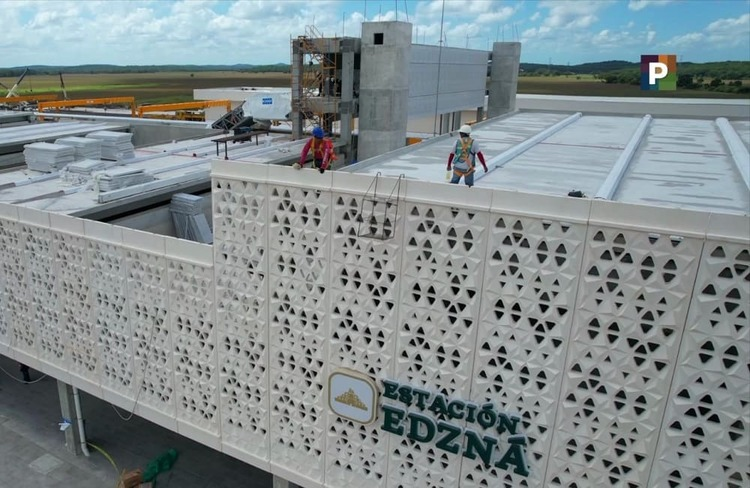
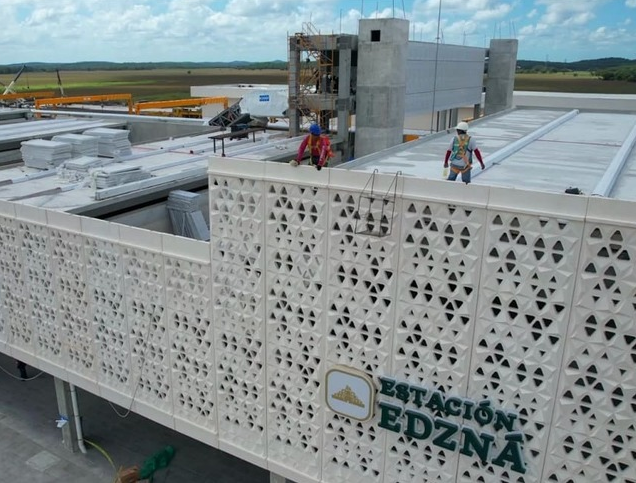
Add features

diff --git a/src/pages/Projects.jsx b/src/pages/Projects.jsx
@@ -6,7 +6,7 @@ import color from "../color";
 import { useBreakpointValue } from '@chakra-ui/react';
 import { FiZoomIn } from "react-icons/fi";
 import ImageGallery from "react-image-gallery";
-import "react-image-gallery/styles/css/image-gallery.css";
+//import "react-image-gallery/styles/css/image-gallery.css";
 
 const fullWidthPositions = [3, 8, 11, 16, 23];
 
@@ -19,7 +19,7 @@ const ImageGrid = ({ images }) => {
                 return (
                     <div
                         key={index}
-                        className={`relative ${isFullWidth ? 'col-span-2' : ''}`}
+                        className={`relative-cont ${isFullWidth ? 'col-span-2' : ''}`}
                     >
                         <img
                             src={item?.route_img ? `/projects/especiales/${item?.route_img}/${item?.imgs[0]}.png` : item?.src}
@@ -248,144 +248,11 @@ const images = [
 
 import { RiBuilding2Line, RiFolderUserLine, RiFolderChartLine, RiNurseLine, RiShakeHandsLine, RiThumbUpLine, RiBuildingLine, RiPencilRuler2Line, RiPageSeparator, RiP2PLine, } from "react-icons/ri";
 
-const features = [
-    {
-        name: 'Proceso Conceptual',
-        description:
-            'En esta etapa inicial del proceso de producción de prefabricados, se desarrolla la visión y el concepto general del proyecto.',
-        icon: RiBuilding2Line,
-    },
-    {
-        name: 'Planeación',
-        description:
-            'La fase de planeación implica la elaboración detallada de un plan estratégico que abarca aspectos logísticos, financieros y temporales.',
-        icon: RiFolderUserLine,
-    },
-    {
-        name: 'Ingeniería de Detalle',
-        description:
-            'Durante esta etapa, se traducen los conceptos y planes generales en especificaciones técnicas y detalles precisos.',
-        icon: RiFolderChartLine,
-    },
-    {
-        name: 'Fabricación',
-        description:
-            'La fabricación es el proceso central donde los componentes prefabricados toman forma. ',
-        icon: RiNurseLine,
-    },
-    {
-        name: 'Transporte y Montaje',
-        description:
-            'Una vez que las unidades prefabricadas han sido fabricadas, se inicia la fase de transporte hacia el lugar de montaje.',
-        icon: RiShakeHandsLine,
-    },
-    {
-        name: 'Conexiones',
-        description:
-            'La fase de conexiones es crítica para asegurar la estabilidad y la integridad estructural del proyecto.',
-        icon: RiThumbUpLine,
-    },
-]
-
-const icons_ = [RiBuilding2Line, RiFolderUserLine, RiFolderChartLine, RiNurseLine, RiShakeHandsLine, RiThumbUpLine, RiBuildingLine, RiPencilRuler2Line, RiPageSeparator, RiP2PLine,]
-
-
-
-const breakpoints = [1080, 640, 384, 256, 128, 96, 64, 48];
-
-function imageLink(path, width, height, size, extension) {
-    return `https://images.react-photo-album.com/hiking/${path}.${width}x${height}.${size}w.${extension}`;
-}
 
 
 const Projects = ({ id }) => {
 
-
     const types = {
-        1: {
-            "name": "Infraestructura",
-            "description": "Somos responsables de la estructura base que da fuerza y sostiene a un gran número de construcciones. Somos la diferencia en obras públicas gracias a nuestra gran experiencia.",
-            "header": "<strong>Nuestra empresa</strong> posee una <strong>sólida trayectoria en aspectos fundamentales para el éxito en el ámbito de la construcción</strong>:",
-            "word_key": [
-                "Máxima garantía de calidad",
-                "Eficiencia",
-                "Seguridad",
-                "Ingeniería estructural",
-                "Normativas de construcción",
-                "Tecnologías innovadoras",
-                "Liderazgo en proyectos",
-                "Planificación y ejecución de obras",
-                "Estrategias de desarrollo",
-                "Eficiencia operativa",
-            ],
-            "content": "Nuestro equipo de profesionales, con <strong>vasta experiencia en roles directivos y académicos</strong>, ofrece conferencias que fusionan conocimientos técnicos con enfoques motivadores. Hemos destacado como líderes en el sector, aplicando nuestra experiencia como directores generales, docentes en instituciones relevantes y consultores en diversas organizaciones nacionales e internacionales.",
-            "footer": "En cada presentación, <strong>buscamos transmitir de manera clara y accesible los principios esenciales de la construcción</strong>, inspirando a nuestra audiencia a implementar cambios que generen satisfacción y un valor añadido tanto en su desarrollo personal como en su carrera profesional."
-        },
-        2: {
-            "name": "Edificación",
-            "description": "Diseñamos y planificamos eficientemente edificios e inmuebles de acuerdo a las necesidades que requieran para sus proyectos habitacionales.",
-            "header": "<strong>Nuestra firma</strong> cuenta con una <strong> extensa trayectoria en el ámbito de la edificación</strong>, abordando aspectos fundamentales para el éxito en este campo:",
-            "word_key": [
-                "Diseño arquitectónico",
-                "Normativas de construcción",
-                "Innovación en técnicas constructivas",
-                "Liderazgo en proyectos de edificación",
-                "Planificación y ejecución de obras",
-                "Estrategias para el desarrollo sostenible",
-                "Eficiencia en procesos constructivos",
-            ],
-            "content": "Nuestro equipo de expertos, <strong>con amplia experiencia en roles directivos y académicos</strong>, ofrece conferencias que combinan conocimientos técnicos con enfoques inspiradores. Hemos destacado como líderes en el sector, aplicando nuestra experiencia como directores generales, docentes en instituciones destacadas y consultores en diversas organizaciones nacionales e internacionales.",
-            "footer": "En cada presentación, <strong>buscamos comunicar de manera clara y accesible los principios esenciales de la edificación</strong>, inspirando a nuestra audiencia a implementar cambios que generen satisfacción y un valor añadido tanto en su desarrollo personal como en su carrera profesional en el emocionante mundo de la construcción."
-        },
-        3: {
-            "name": "Transporte",
-            "description": "Parte fundamental de entorno del prefabricado es el transporte el cual consiste en el desplazamiento de los elementos prefabricados a los sitos indicados por nuestros clientes. Contamos con el mejor equipo de Transporte para lograr una eficaz ejecución de todos tus proyectos.",
-            "header": "<strong>Nuestra empresa</strong> ha forjado una sólida trayectoria en el <strong>ámbito del transporte de materiales y estructuras prefabricadas</strong>, abordando aspectos críticos para garantizar el éxito en esta área especializada:",
-            "word_key": [
-                "Logística eficiente en el transporte de materiales",
-                "Gestión de la cadena de suministro",
-                "Innovación en técnicas de transporte",
-                "Liderazgo en proyectos logísticos",
-                "Planificación y ejecución de rutas especializadas",
-                "Estrategias para la optimización del transporte",
-                "Eficiencia en la manipulación de estructuras prefabricadas",
-            ],
-            "content": "Nuestro equipo de especialistas, <strong>con una amplia experiencia en roles directivos y técnicos</strong>, ofrece conferencias que combinan conocimientos prácticos con enfoques inspiradores. Hemos destacado como líderes en el sector, aplicando nuestra experiencia en proyectos logísticos complejos, tanto a nivel nacional como internacional.",
-            "footer": "En cada presentación, <strong>nos esforzamos por comunicar de manera clara y accesible los principios esenciales del transporte de materiales y estructuras prefabricadas</strong>, inspirando a nuestra audiencia a implementar prácticas innovadoras que generen eficiencia y un valor añadido en esta dinámica y esencial área de la construcción."
-        },
-        4: {
-            "name": "Montaje",
-            "description": "Una vez realizada la fabricación y el transporte, ejecutamos el montaje de las piezas prefabricadas con seguridad y precisión para construir la estructura proyectada.",
-            "header": "<strong>Nuestra empresa</strong> ha consolidado una destacada experiencia en el <strong>ámbito del montaje de materiales y estructuras prefabricadas</strong>, abordando aspectos fundamentales para el éxito en esta especialidad:",
-            "word_key": [
-                "Técnicas avanzadas de montaje",
-                "Planificación detallada de la instalación",
-                "Innovación en procesos de ensamblaje",
-                "Liderazgo en proyectos de montaje",
-                "Coordinación eficiente de equipos de trabajo",
-                "Estrategias para la optimización del proceso de montaje",
-                "Garantía de seguridad en la instalación",
-            ],
-            "content": "Nuestro equipo de especialistas, <strong>con una amplia experiencia en roles directivos y técnicos</strong>, ofrece conferencias que combinan conocimientos técnicos con enfoques inspiradores. Nos destacamos como líderes en el sector, aplicando nuestra experiencia en proyectos de montaje complejos, tanto a nivel nacional como internacional.",
-            "footer": "En cada presentación, <strong>nos esforzamos por comunicar de manera clara y accesible los principios esenciales del montaje de materiales y estructuras prefabricadas</strong>, inspirando a nuestra audiencia a implementar prácticas innovadoras que generen eficiencia y un valor añadido en esta crítica etapa del proceso constructivo."
-        },
-        5: {
-            "name": "Supervisión",
-            "description": "La supervisión de las obras forma parte de las funciones administrativas de gran valor e importancia que realizamos para que se cumplan efectiva y puntualmente los objetivos del proyecto de forma legal, en tiempo y calidad.",
-            "header": "<strong>Nuestra firma</strong> se distingue por su <strong>destacada supervisión en los procesos de instalación de estructuras prefabricadas</strong>, abordando aspectos cruciales para garantizar la eficiencia y la calidad en cada fase del proyecto:",
-            "word_key": [
-                "Supervisión técnica especializada en instalación de prefabricados",
-                "Gestión de la seguridad en el sitio de construcción",
-                "Innovación en métodos de instalación",
-                "Liderazgo en la coordinación de equipos de trabajo",
-                "Planificación y ejecución de procesos de montaje",
-                "Estrategias para la optimización de recursos",
-                "Eficiencia en la integración de estructuras prefabricadas",
-            ],
-            "content": "Nuestro equipo de supervisores, <strong>con una vasta experiencia en roles de dirección y técnica</strong>, imparte conferencias que combinan conocimientos prácticos con enfoques motivadores. Nos destacamos como líderes en el sector, aplicando nuestra experiencia en proyectos de instalación de estructuras prefabricadas en diversos contextos y escalas.",
-            "footer": "En cada presentación, <strong>nos esforzamos por comunicar de manera clara y accesible los principios esenciales de la supervisión en la instalación de estructuras prefabricadas</strong>, inspirando a nuestra audiencia a implementar prácticas avanzadas que generen eficiencia y un valor añadido en esta fase crítica de la construcción."
-        },
-
         6: {
             "name": "Especiales",
             "description": "La supervisión de las obras forma parte de las funciones administrativas de gran valor e importancia que realizamos para que se cumplan efectiva y puntualmente los objetivos del proyecto de forma legal, en tiempo y calidad.",
@@ -439,48 +306,6 @@ const Projects = ({ id }) => {
                     <div className="container mx-auto pb-16 p-1.5 ">
                         <ImageGrid images={images} />
                     </div>
-
-                    {/*<section>
-                        <section id="system">
-                            <div className="row-base row">
-                                <div>
-                                    <Fade direction="down">
-                                        <section className="text-center">
-                                            <h2 className="section-title" style={{ paddingTop: 30, }}>Expertos en <span className="text-primary-blue">{types[id]?.name}</span></h2>
-                                        </section>
-                                    </Fade>
-                                    <div className="line-banner" style={{ backgroundColor: color.orange }} />
-                                    <div className="">
-                                        <div className="col-base col-md-offset-1">
-                                            <div className="col-about-info">
-                                                <div>
-                                                    <p style={{ textAlign: 'center' }}>
-                                                        <div dangerouslySetInnerHTML={{ __html: types[id]?.description }} />
-                                                    </p>
-                                                </div>
-                                                <p>
-                                                    <div dangerouslySetInnerHTML={{ __html: types[id]?.content }} />
-                                                </p>
-                                                <p>
-                                                    <div dangerouslySetInnerHTML={{ __html: types[id]?.header }} />
-                                                </p>
-                                                <ol type="A">
-                                                    {types[id]?.word_key.map((item, index) => (
-                                                        <div style={{ borderColor: '#B6B6B650', borderBottomWidth: 1, paddingTop: 8, paddingBottom: 8, }}>
-                                                            <li key={index}>{item}</li>
-                                                        </div>
-                                                    ))}
-                                                </ol>
-                                                <p>
-                                                    <div dangerouslySetInnerHTML={{ __html: types[id]?.footer }} />
-                                                </p>
-                                            </div>
-                                        </div>
-                                    </div>
-                                </div>
-                            </div>
-                        </section>
-                                                    </section>*/}
                 </section>
             </BGPoints>
         </NavBar>

diff --git a/src/pages/Index.jsx b/src/pages/Index.jsx
@@ -27,7 +27,7 @@ const features_ = [
     {
         "id": 4,
         "img": "/imgs/004.jpg",
-        "name": "Sistema pretensado y postensado",
+        "name": "SISTEMA PRETENSADO Y POSTENSADO",
         description: "Desarrollando tecnologías propias en prefabricación de trabes para puentes y viaductos elevados de hasta más de 300 toneladas.",
         icon: RiFolderChartLine,
         "url": "/infraestructura"
@@ -35,7 +35,7 @@ const features_ = [
     {
         "id": 7,
         "img": "/foro-sol.jpg",
-        "name": "Proyectos y Sistemas arquitectónicos",
+        "name": "PROYECTOS Y SISTEMAS ARQUITECTÓNICOS",
         "description": "Nos encargamos de la estructura base que dan fuerza a un gran número de proyectos.",
         icon: RiFolderUserLine,
         "url": "/infraestructura"
@@ -43,32 +43,32 @@ const features_ = [
     {
         "id": 5,
         "img": "/imgs/005.jpg",
-        "name": "Estructuración y diseño",
-        "description": "Diseñamos y planificamos edificios e inmuebles de acuerdo a las necesidades.",
+        "name": "DISEÑO ESTRUCTURAL",
+        "description": "Planeamos y diseñamos las soluciones estructurales que nuestros clientes necesitan.",
         icon: RiBuilding2Line,
         "url": "/edificacion"
     },
     {
         "id": 6,
         "img": "/imgs/people.jpeg",
-        "name": "Supervisión y dirección de obras",
-        "description": "La supervisamos de las obras es de gran valor e importancia, cumpliendo los objetivos.",
+        "name": "DIRECCIÓN Y SUPERVISIÓN DE OBRAS",
+        "description": "La supervisión es una de las funciones administrativas de gran valor e importancia que realizamos para que se cumplan en tiempo y forma los objetivos del proyecto. ",
         icon: RiNurseLine,
         "url": "/supervision"
     },
     {
         "id": 8,
         "img": "/services_card5.jpg",
-        "name": "Fabricación y montaje de elementos",
-        "description": "Una vez realizada la fabricación, ejecutamos el montaje de las piezas con toda precisión.",
+        "name": "FABRICACIÓN DE ELEMENTOS DE CONCRETO",
+        "description": "Nuestros procesos de fabricación cuentan con el Certificado nivel Oro de Calidad y Sustentabilidad que el ONNCCE avala. ",
         icon: RiShakeHandsLine,
         "url": "/montaje"
     },
     {
         "id": 9,
         "img": "/imgs/002.jpg",
-        "name": "Transporte de elementos de concreto",
-        "description": "Contamos con el mejor equipo de Transporte para lograr una eficaz ejecución.",
+        "name": "TRANSPORTE Y MONTAJE DE ELEMENTOS DE CONCRETO",
+        "description": "Nuestros procedimientos para el transporte y montaje de los elementos de concreto cuentan con el Certificado Nivel Oro de Calidad Seguridad que el ONNCCE avala.",
         icon: RiThumbUpLine,
         "url": "/transporte"
     }
@@ -377,7 +377,7 @@ const Index = () => {
                         </section>
                     </div>
 
-                    <section className={`mt-20 ${mobile ? "" : "_main container"}`}>
+                    <section className={`mt-20 ${mobile ? "" : "_main container"}`}  id="map">
                         <section className="text-center">
                             <h2 className="text-base font-semibold leading-7" style={{ color: color.primary }}>Llevamos nuestros proyectos destacados a una</h2>
                             <Fade direction="down">
@@ -467,36 +467,39 @@ const Index = () => {
                             </section>
                         </section>
                             </section>*/}
-                    {/*<div className="overflow-hidden py-24 sm:py-32">
-                        <div className="mx-auto max-w-7xl px-6 lg:px-8">
-                            <div className="mx-auto grid max-w-2xl grid-cols-1 gap-x-8 gap-y-16 sm:gap-y-20 lg:mx-0 lg:max-w-none lg:grid-cols-2">
-                                <div className="lg:pr-8 lg:pt-4">
-                                    <div className="lg:max-w-lg">
-                                        <h2 className="text-base font-semibold leading-7" style={{ color: color.primary }}>La forma de destacarnos</h2>
-                                        <p className="mt-2 text-3xl font-bold tracking-tight text-gray-900 sm:text-4xl">Productos y Servicios</p>
-                                        <dl className="mt-10 max-w-xl space-y-8 text-base leading-7 text-gray-600 lg:max-w-none">
-                                            {features_.map((feature) => (
-                                                <div key={feature.name} className="relative pl-9">
-                                                    <dt className="inline font-semibold text-gray-900">
-                                                        <feature.icon className="absolute left-1 top-1 h-5 w-5" color={color.primary} aria-hidden="true" />
-                                                        {feature.name}
-                                                    </dt><br />
-                                                    <dd className="inline">{feature.description}</dd> <a href={feature.url} style={{ fontWeight: 'bold', color: color.orange }}>Ver más...</a>
-                                                </div>
-                                            ))}
-                                        </dl>
+                    <section id="features">
+                        <div className="overflow-hidden py-24 sm:py-32">
+                            <div className="mx-auto max-w-7xl px-6 lg:px-8">
+                                <div className="mx-auto grid max-w-2xl grid-cols-1 gap-x-8 gap-y-16 sm:gap-y-20 lg:mx-0 lg:max-w-none lg:grid-cols-2">
+                                    <div className="lg:pr-8 lg:pt-4">
+                                        <div className="lg:max-w-lg">
+                                            <h2 className="text-base font-semibold leading-7" style={{ color: color.primary }}>La forma de destacarnos</h2>
+                                            <p className="mt-2 text-3xl font-bold tracking-tight text-gray-900 sm:text-4xl">Productos y Servicios</p>
+                                            <dl className="mt-10 max-w-xl space-y-8 text-base leading-7 text-gray-600 lg:max-w-none">
+                                                {features_.map((feature) => (
+                                                    <div key={feature.name} className="relative pl-9">
+                                                        <dt className="inline font-semibold text-gray-900">
+                                                            <feature.icon className="absolute left-1 top-1 h-5 w-5" color={color.primary} aria-hidden="true" />
+                                                            {feature.name}
+                                                        </dt><br />
+                                                        <dd className="inline">{feature.description}</dd> <a href={feature.url} style={{ fontWeight: 'bold', color: color.orange }}>Ver más...</a>
+                                                    </div>
+                                                ))}
+                                            </dl>
+                                        </div>
                                     </div>
+                                    <img
+                                        src={"/imgs/collage.png"}
+                                        className="w-[48rem] max-w-none shadow-xl ring-1 ring-gray-400/10 sm:w-[57rem] md:-ml-4 lg:-ml-0"
+                                        width={2432}
+                                        height={1442}
+                                        style={{ borderRadius: '1.5em' }}
+                                    />
                                 </div>
-                                <img
-                                    src={"/imgs/collage.png"}
-                                    className="w-[48rem] max-w-none shadow-xl ring-1 ring-gray-400/10 sm:w-[57rem] md:-ml-4 lg:-ml-0"
-                                    width={2432}
-                                    height={1442}
-                                    style={{ borderRadius: '1.5em' }}
-                                />
                             </div>
                         </div>
-                    </div>*/}
+                    </section>
+
                 </BGPoints>
             </NavBar>
             <ModalCenter
@@ -563,7 +566,7 @@ const Index = () => {
                         </div>
                     </div>
                 </div>
-            </ModalCenter >
+            </ModalCenter>
 
             <ModalCenter
                 show={modalShow}

diff --git a/src/styles/styles.css b/src/styles/styles.css
@@ -1466,7 +1466,7 @@ a.dropdown-item {
   filter: drop-shadow(5px 5px 8px rgba(162, 129, 88, 0.8));
 }
 
-.relative {
+.relative-cont {
       overflow: hidden; /* Esto recorta el contenido que se sale */
   }
 
@@ -1492,11 +1492,11 @@ a.dropdown-item {
     transition: opacity 300ms, transform 1000ms cubic-bezier(0.25, 0.45, 0.45, 0.95);
   }
   
-  .relative:hover .gallery-overlay {
+  .relative-cont:hover .gallery-overlay {
     opacity: 1;
   }
   
-  .relative:hover .gallery-image {
+  .relative-cont:hover .gallery-image {
     opacity: 0.4;
     transform: scale(1.15);
     transition: transform 1000ms cubic-bezier(0.25, 0.45, 0.45, 0.95);
